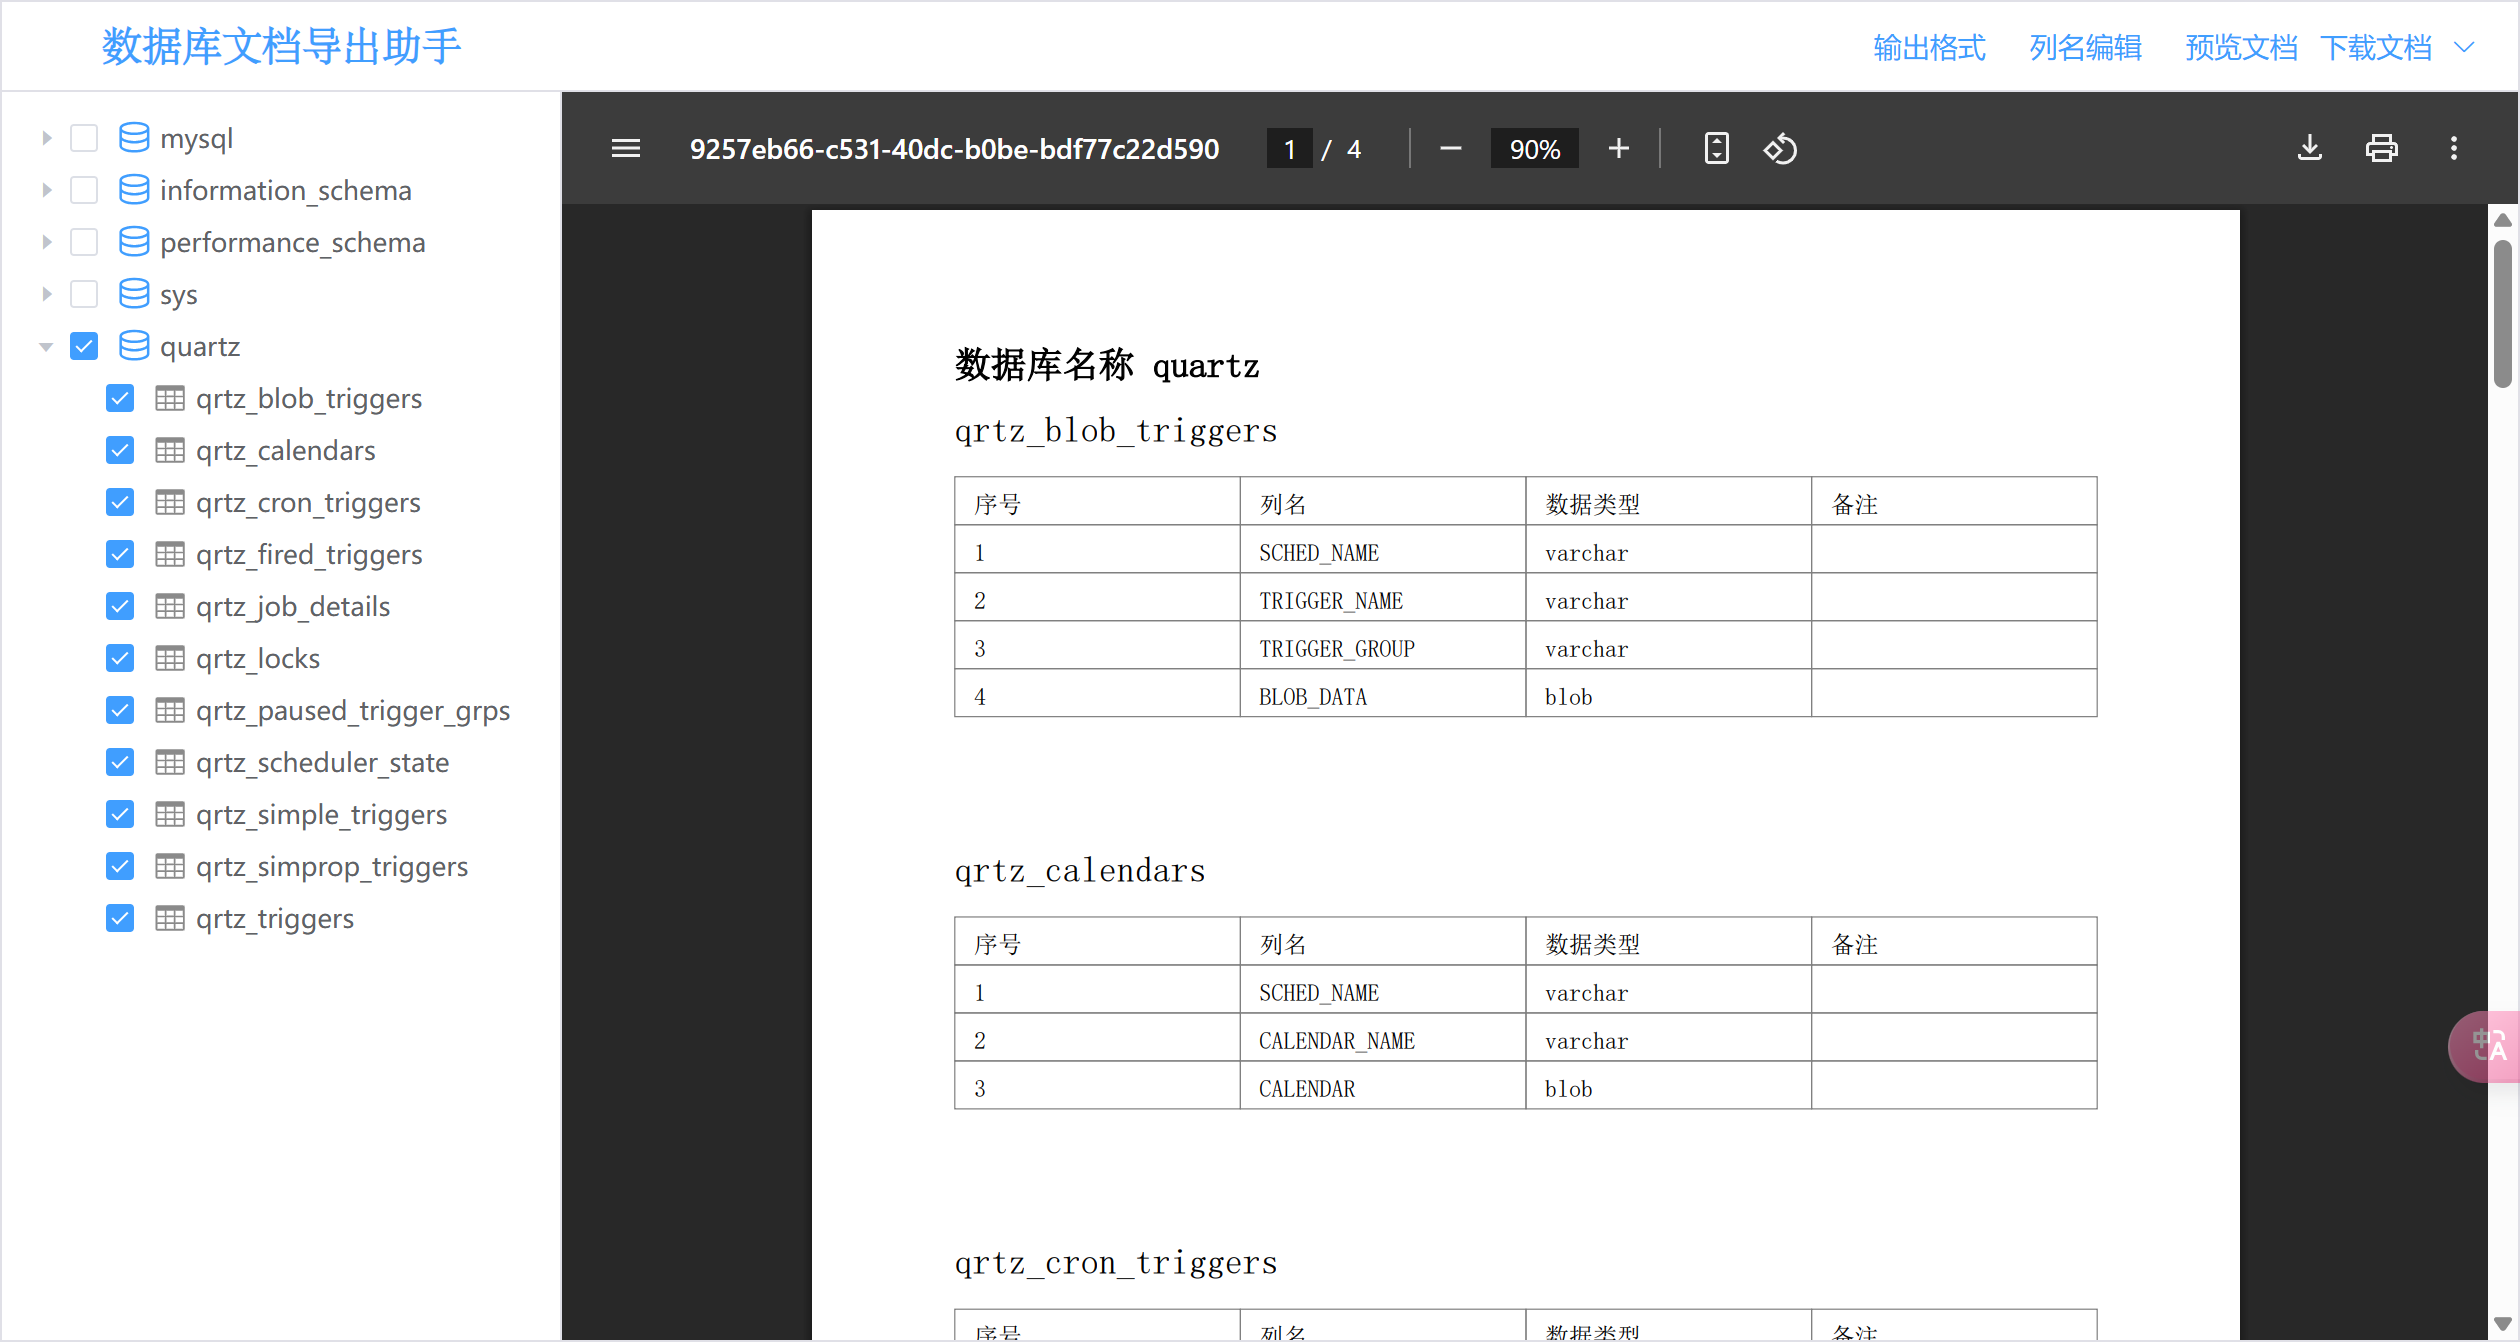
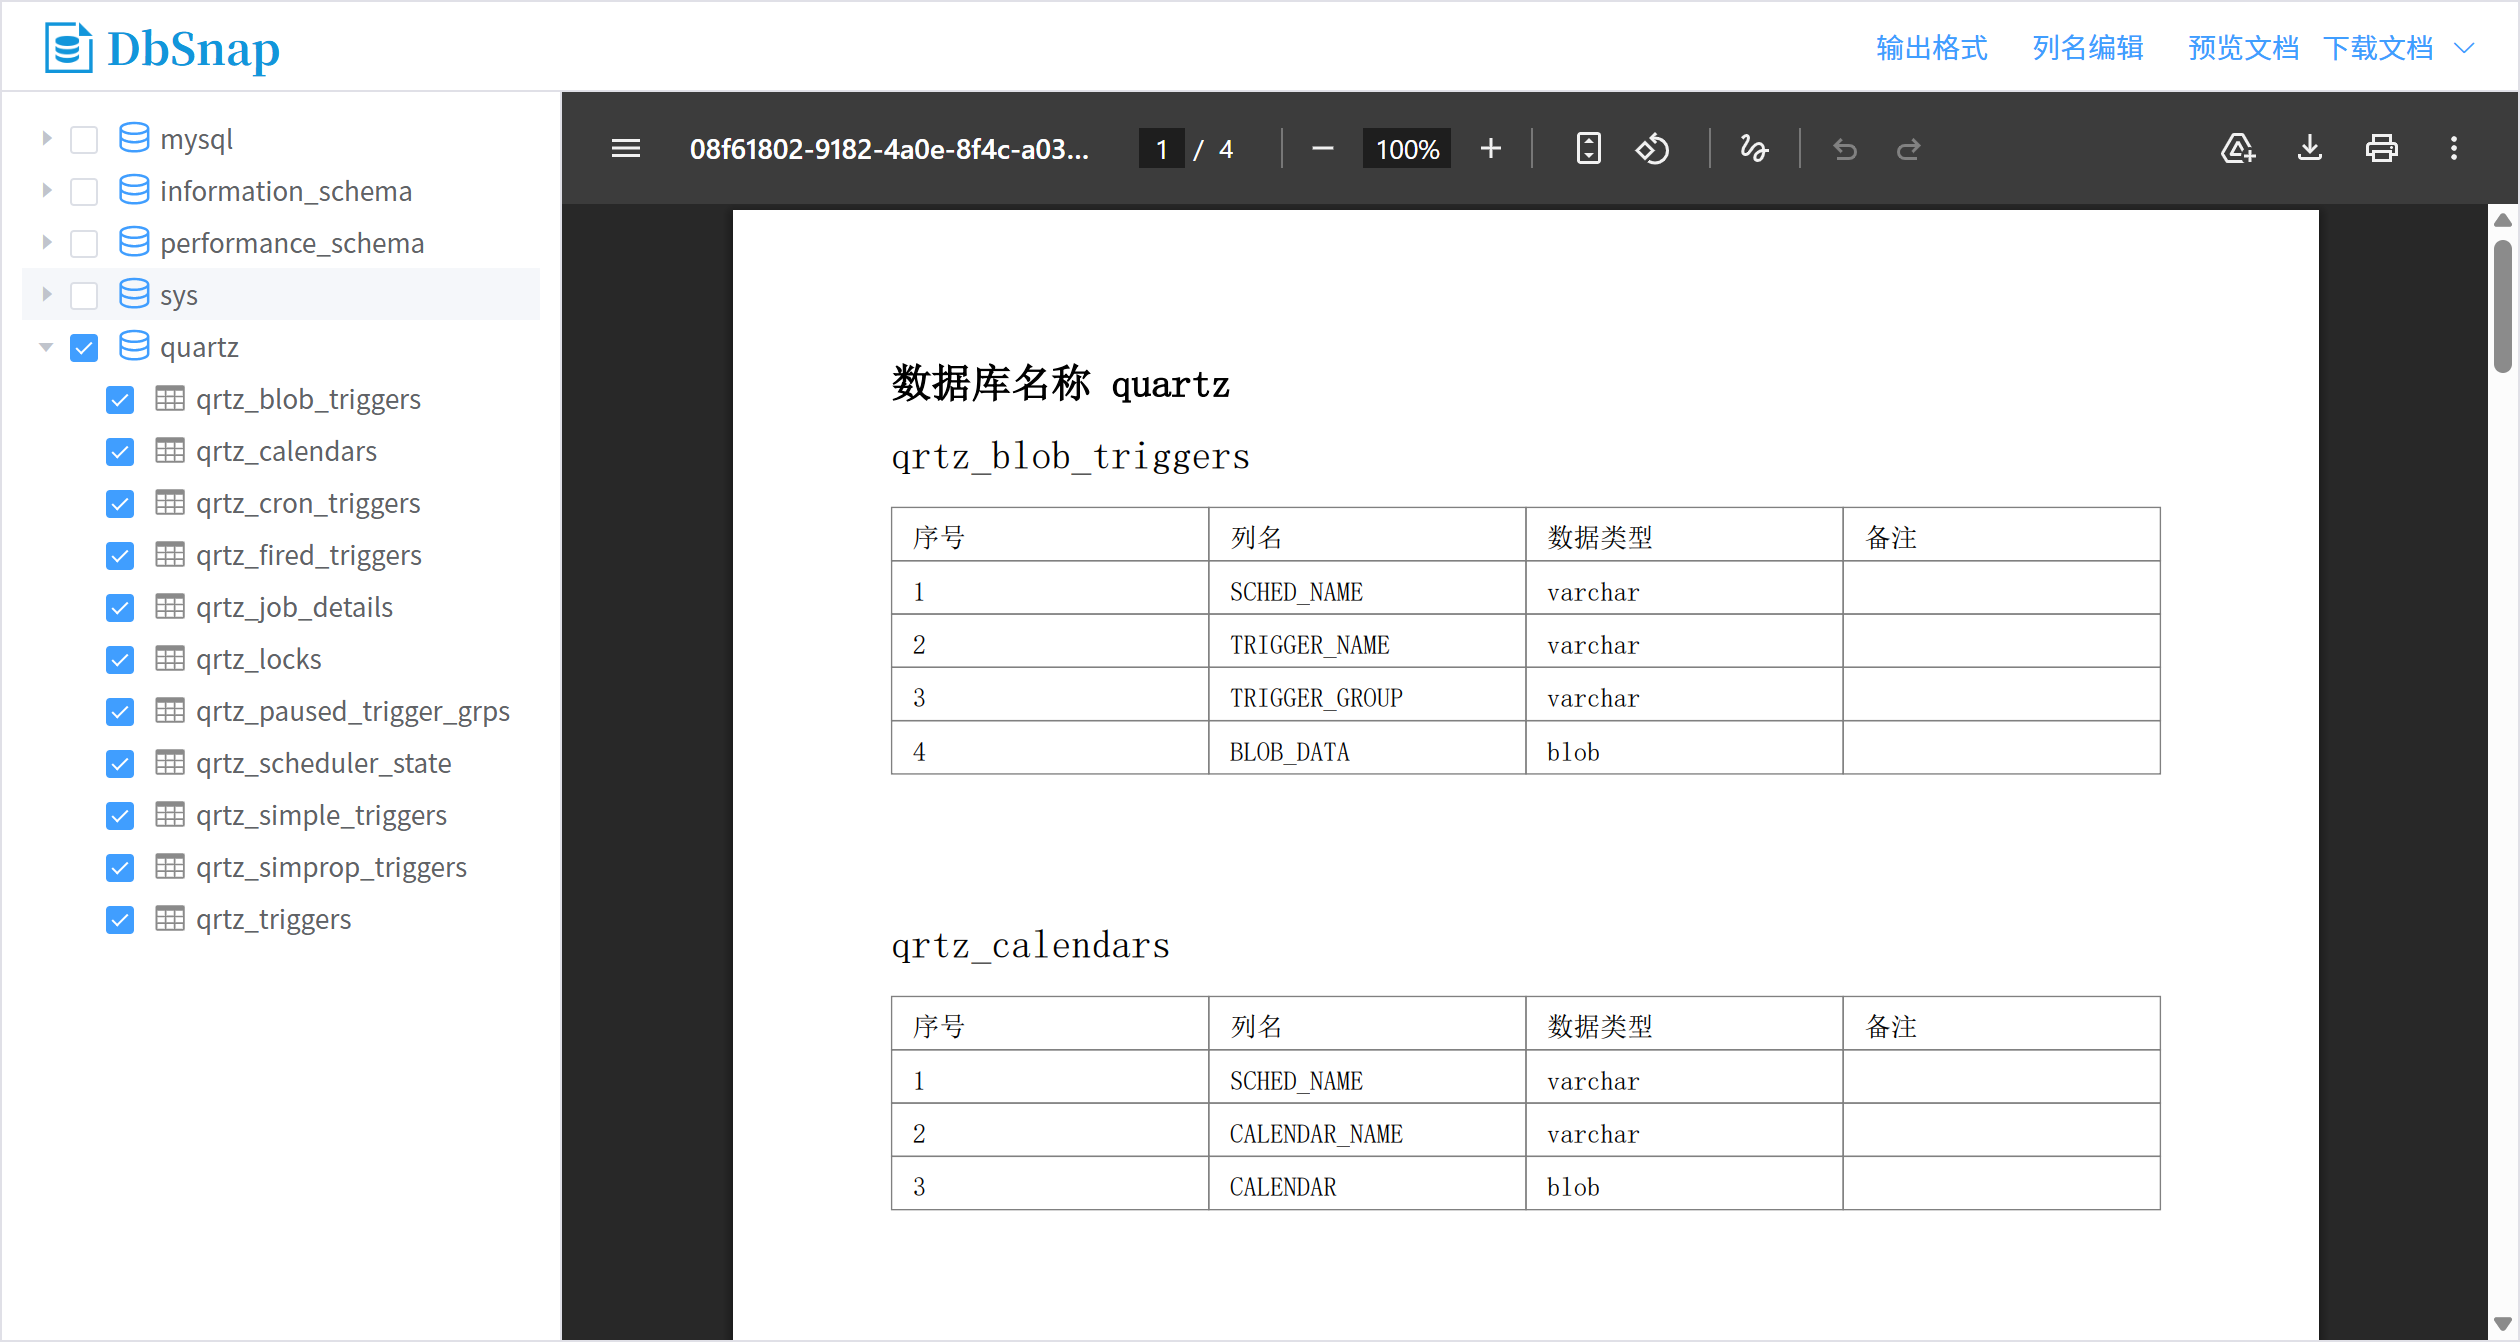
恢复百度网盘下载链接失效

diff --git a/src/main/resources/templates/document.html b/src/main/resources/templates/document.html
@@ -5,7 +5,7 @@
     <meta name="viewport"
           content="width=device-width, user-scalable=no, initial-scale=1.0, maximum-scale=1.0, minimum-scale=1.0">
     <meta http-equiv="X-UA-Compatible" content="ie=edge">
-    <title>数据库文档导出助手</title>
+    <title>DbSnap</title>
     <script src="/js/vue.js"></script>
     <link rel="icon" type="image/x-icon" href="/icon/favicon.ico">
     <!-- 引入样式 -->
@@ -21,7 +21,10 @@
     <div class="document-layout">
         <div class="container">
             <div class="nav-bar">
-                <el-page-header @back="goBack" class="title" content="数据库文档导出助手"></el-page-header>
+                <div class="title-bar">
+                    <img class="logo" src="/icon/favicon.ico" />
+                    <div class="title">DbSnap</div>
+                </div>
                 <div class="button-bar">
                     <el-button @click="formatDialogVisible = true" type="text">输出格式</el-button>
                     <el-button @click="fieldDialogVisible = true" type="text">列名编辑</el-button>

diff --git a/src/main/resources/static/css/document.css b/src/main/resources/static/css/document.css
@@ -39,8 +39,29 @@
     display: flex;
     justify-content: space-between;
     align-items: center;
-    padding: 0 20px 0 10px;
+    padding: 0 20px 0 20px;
 }
+
+.nav-bar .title-bar {
+    height: 100%;
+    display: flex;
+    justify-content: start;
+    align-items: center;
+    gap: 5px;
+}
+
+.nav-bar .title-bar .logo {
+    height: 27px;
+}
+
+.nav-bar .title-bar .title {
+    font-size: 22px;
+    color: #1296DB;
+    font-family: '幼圆体', serif; /* 保留原字体 */
+    user-select: none;
+    font-weight: bold;
+}
+
 
 .el-page-header__left::after {
     right: -10px;
@@ -53,14 +74,6 @@
 .el-page-header__content {
     font-size: 18px;
     color: #409EFF;
-}
-
-.nav-bar .title {
-    font-family: '华文宋体', serif; /* 保留原字体 */
-    user-select: none;
-    font-size: 20px; /* 适当增加字体大小 */
-    color: #409EFF;
-    font-weight: bold;
 }
 
 .nav-bar .button-bar {
